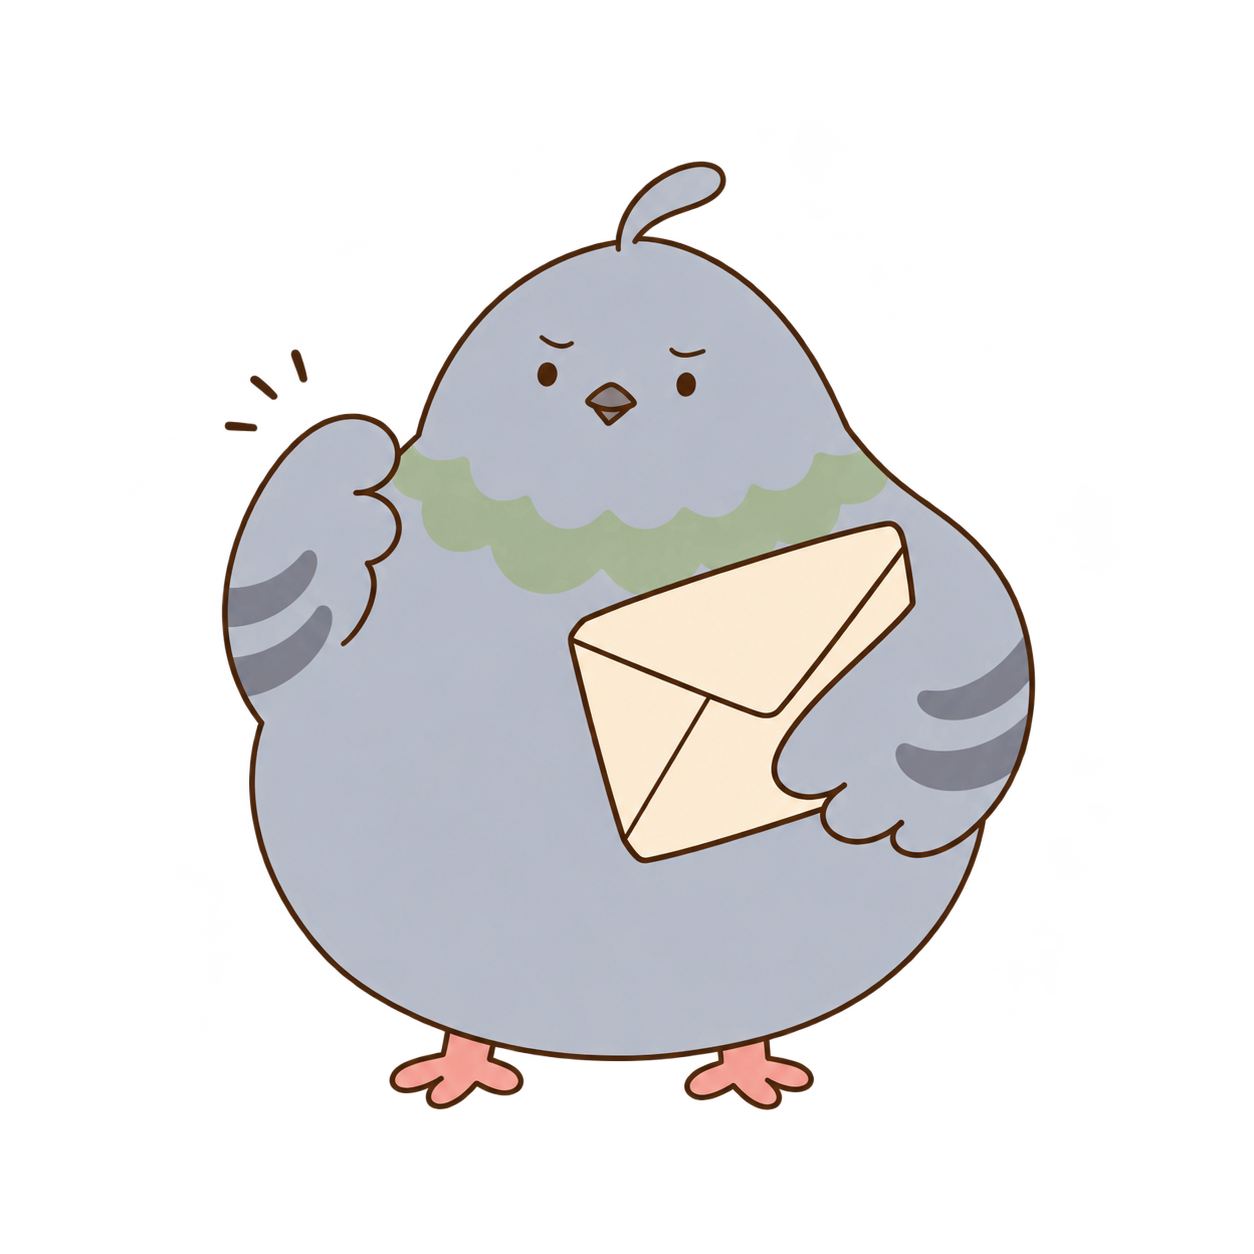
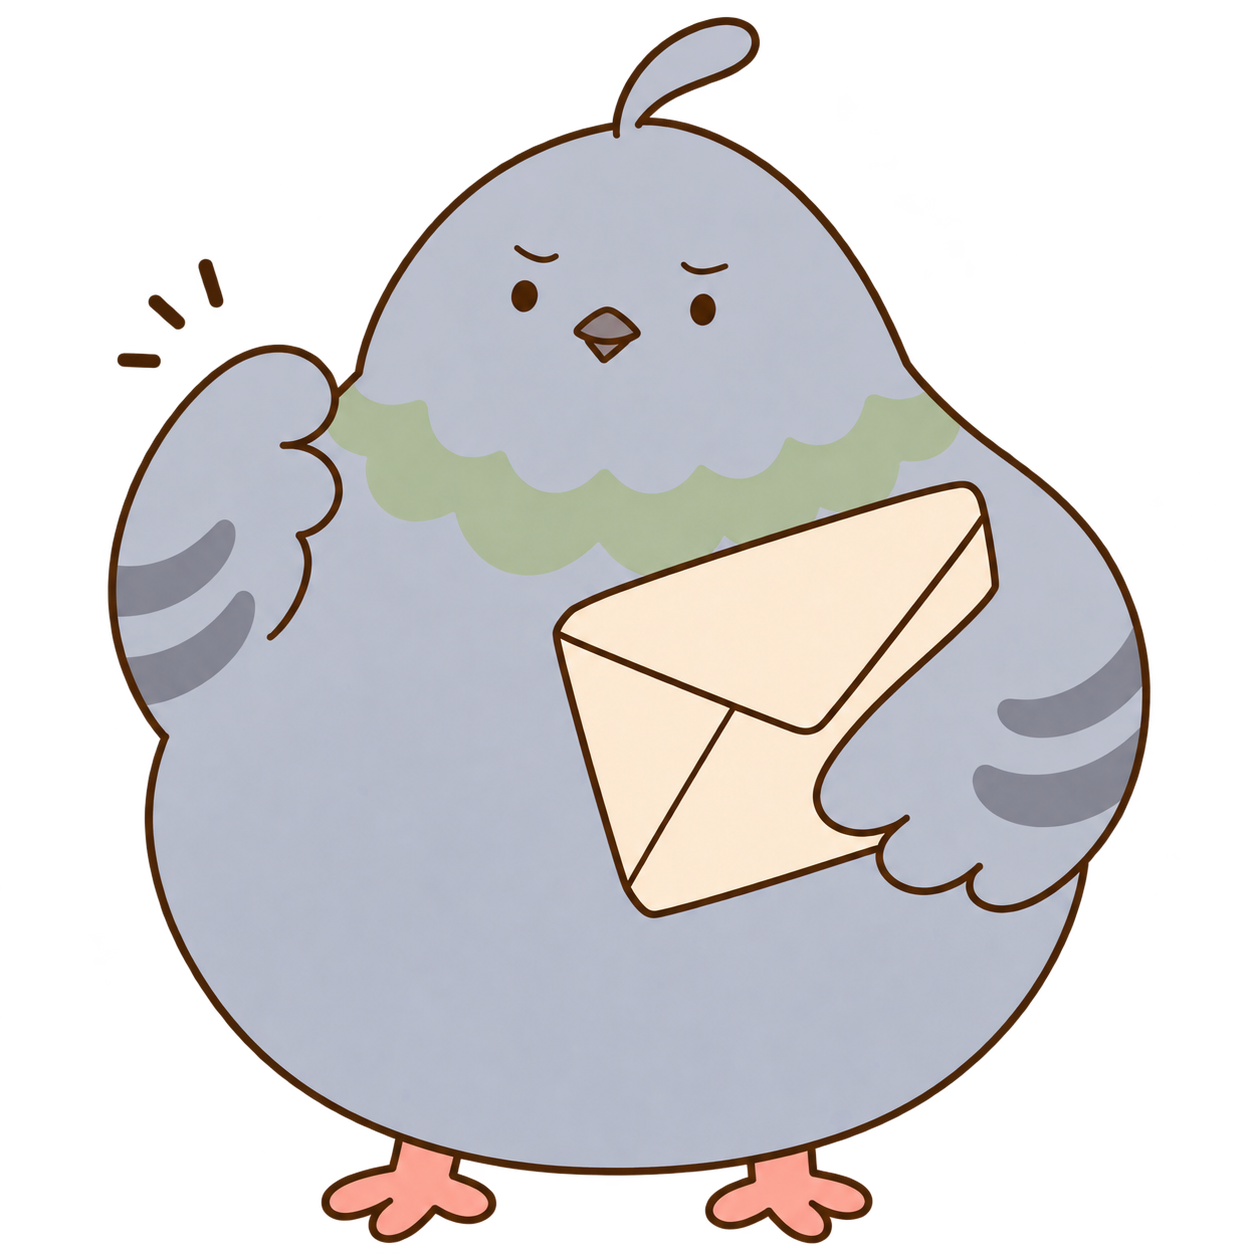
docs: tighten Pip mascot framing and README header

Changed region(s): [[0.0622, 0.0, 0.933, 0.9952], [0.1244, 0.1866, 0.1866, 0.2799], [0.0933, 0.2799, 0.1244, 0.311]]

diff --git a/README.md b/README.md
@@ -1,8 +1,7 @@
-<p align="center">
-  <img src="docs/media/pip.png" alt="Pip, Poke’s pigeon courier holding an envelope" width="200">
-</p>
-
-<h1 align="center">poke</h1>
+<h1 align="center">
+  <img src="docs/media/pip.png" alt="Pip, Poke’s pigeon courier holding an envelope" width="160"><br>
+  poke
+</h1>
 
 <p align="center">
   <strong>Send a message. Wake the right agent. Know what happened.</strong>
